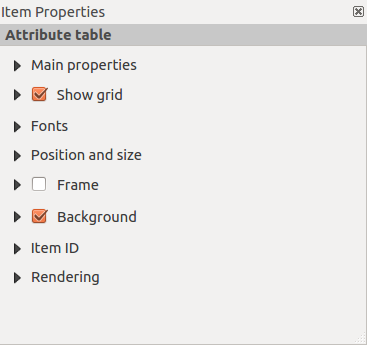
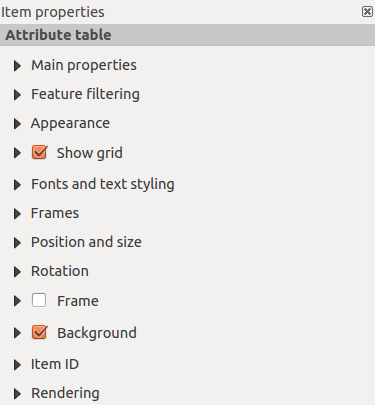
updated screenshots to explain composer attribute table

diff --git a/source/docs/user_manual/print_composer/print_composer.rst b/source/docs/user_manual/print_composer/print_composer.rst
@@ -1055,58 +1055,158 @@ The Attribute Table item
 ------------------------
 
 It is possible to add parts of a vector attribute table to the Print Composer
-canvas: Click the |mActionOpenTable| :sup:`Add attribute table` icon, place the element with the left mouse button on the Print Composer
-canvas, and position and customize the appearance in the :guilabel:`Item Properties` tab.
+canvas: Click the |mActionOpenTable| :sup:`Add attribute table` icon, place the 
+element with the left mouse button on the Print Composer canvas, and position and 
+customize the appearance in the :guilabel:`Item Properties` tab.
 
 The :guilabel:`Item properties` of an attribute table item tab provides the following
-functionalities (see figure_composer_24_):
+functionalities (see figure_composer_table_1_):
 
-.. _Figure_composer_24:
+.. _Figure_composer_table_1:
 
 .. only:: html
 
-   **Figure Composer 24:**
+   **Figure Composer Attribute Table 1:**
 
 .. figure:: /static/user_manual/print_composer/print_composer_attribute1.png
    :align: center
 
-   Scale Bar Item properties Tab |nix|
+   Attribute table Item properties Tab |nix|
 
-Main properties, Show grid and Fonts
-^^^^^^^^^^^^^^^^^^^^^^^^^^^^^^^^^^^^
 
-The :guilabel:`Main properties`, :guilabel:`Show grid` and :guilabel:`Fonts` dialogs of the attribute table :guilabel:`Item Properties` tab
-provide the following functionalities (see figure_composer_25_):
+Main properties
+^^^^^^^^^^^^^^^
 
-.. _Figure_composer_25:
+The :guilabel:`Main properties` dialogs of the attribute table :guilabel:`Item Properties` 
+tab provide the following functionalities  (see figure_composer_table_2_):
+
+.. _Figure_composer_table_2:
 
 .. only:: html
 
-   **Figure Composer 25:**
+   **Figure Composer Attribute Table 2:**
 
 .. figure:: /static/user_manual/print_composer/print_composer_attribute2.png
    :align: center
 
-   Attribute table Main properties, Show grid and Fonts Dialog |nix|
+   Attribute table Main properties Dialog |nix|
 
-   .. _Figure_composer_26:
+The :guilabel:`Table` dialog allows you to select the vector layer and columns of the attribute table. 
+Attribute columns can be sorted, and you can specify whether to show values in ascending or descending 
+order (see figure_composer_table_3_).
+
+.. _Figure_composer_table_3:
 
 .. only:: html
 
-   **Figure Composer 26:**
+   **Figure Composer Attribute Table 3:**
 
 .. figure:: /static/user_manual/print_composer/print_composer_attribute3.png
    :align: center
 
    Attribute table Select attributes Dialog |nix|
 
-* The :guilabel:`Table` dialog allows you to select the vector layer and columns of the attribute table. Attribute columns can be sorted, and you
-  can specify whether to show values in ascending or descending order (see figure_composer_26_).
-* You can choose to display the attributes of only features visible on a map. Check |checkbox| :guilabel:`Show only visible features` and
-  select the corresponding :guilabel:`Composer map` to filter.
-* You can define the :guilabel:`Maximum number of rows` to be displayed and the :guilabel:`margin` around text.
-* Additionally, you can define the grid characteristics of the table (:guilabel:`Stroke width` and :guilabel:`Color` of the grid) and the
-  header and content font.
+
+Feature filtering
+^^^^^^^^^^^^^^^^^
+
+The :guilabel:`Feature filtering` dialogs of the attribute table :guilabel:`Item Properties` 
+tab provide the following functionalities  (see figure_composer_table_4_):
+
+.. _Figure_composer_table_4:
+
+.. only:: html
+
+   **Figure Composer Attribute Table 4:**
+
+.. figure:: /static/user_manual/print_composer/print_composer_attribute4.png
+   :align: center
+
+   Attribute table Feature filtering Dialog |nix|
+
+You can define the :guilabel:`Maximum number of rows` to be displayed.
+
+You can choose to display the attributes of only features visible on a map. Check |checkbox| 
+:guilabel:`Show only visible features` and select the corresponding :guilabel:`Composer map` to filter.
+
+
+Appearance
+^^^^^^^^^^
+
+The :guilabel:`Appearance` dialogs of the attribute table :guilabel:`Item Properties` 
+tab provide the following functionalities  (see figure_composer_table_5_):
+
+.. _Figure_composer_table_5:
+
+.. only:: html
+
+   **Figure Composer Attribute Table 5:**
+
+.. figure:: /static/user_manual/print_composer/print_composer_attribute5.png
+   :align: center
+
+   Attribute table appearance Dialog |nix|
+
+You can define the :guilabel:`margin` around text.
+
+
+Show grid
+^^^^^^^^^
+
+The :guilabel:`Show grid` dialog of the attribute table :guilabel:`Item Properties` tab
+provide the following functionalities (see figure_composer_table_6_):
+
+   .. _Figure_composer_table_6:
+
+.. only:: html
+
+   **Figure Composer Attribute Table 6:**
+
+.. figure:: /static/user_manual/print_composer/print_composer_attribute6.png
+   :align: center
+
+   Attribute table Show grid Dialog |nix|
+
+You can define the grid characteristics of the table (:guilabel:`Stroke width` and :guilabel:`Color` of the grid) 
+
+
+Fonts and text styling
+^^^^^^^^^^^^^^^^^^^^^^
+
+The :guilabel:`Fonts and text styling` dialog of the attribute table :guilabel:`Item Properties` tab
+provide the following functionalities (see figure_composer_table_7_):
+
+   .. _Figure_composer_table_7:
+
+.. only:: html
+
+   **Figure Composer Attribute Table 7:**
+
+.. figure:: /static/user_manual/print_composer/print_composer_attribute7.png
+   :align: center
+
+   Attribute table Fonts and text styling Dialog |nix|
+
+You can define the header and content font.
+
+
+Frames
+^^^^^^
+
+The :guilabel:`Frames` dialog of the attribute table :guilabel:`Item Properties` tab
+provide the following functionalities (see figure_composer_table_8_):
+
+   .. _Figure_composer_table_8:
+
+.. only:: html
+
+   **Figure Composer Attribute Table 8:**
+
+.. figure:: /static/user_manual/print_composer/print_composer_attribute8.png
+   :align: center
+
+   Attribute table Frames Dialog |nix|
+
 
 .. index:: HTML_Frame
 
